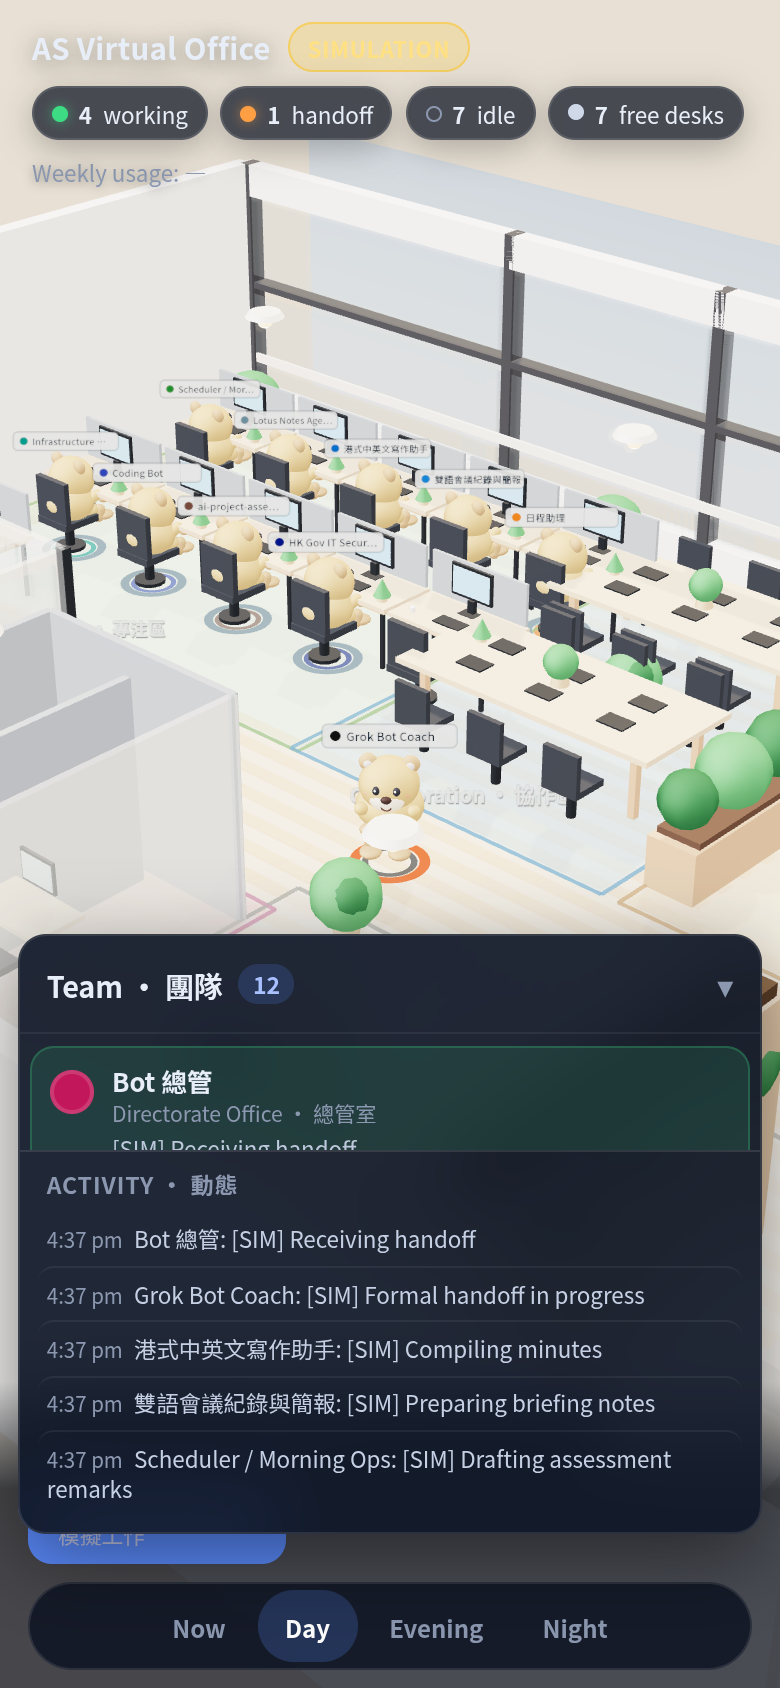
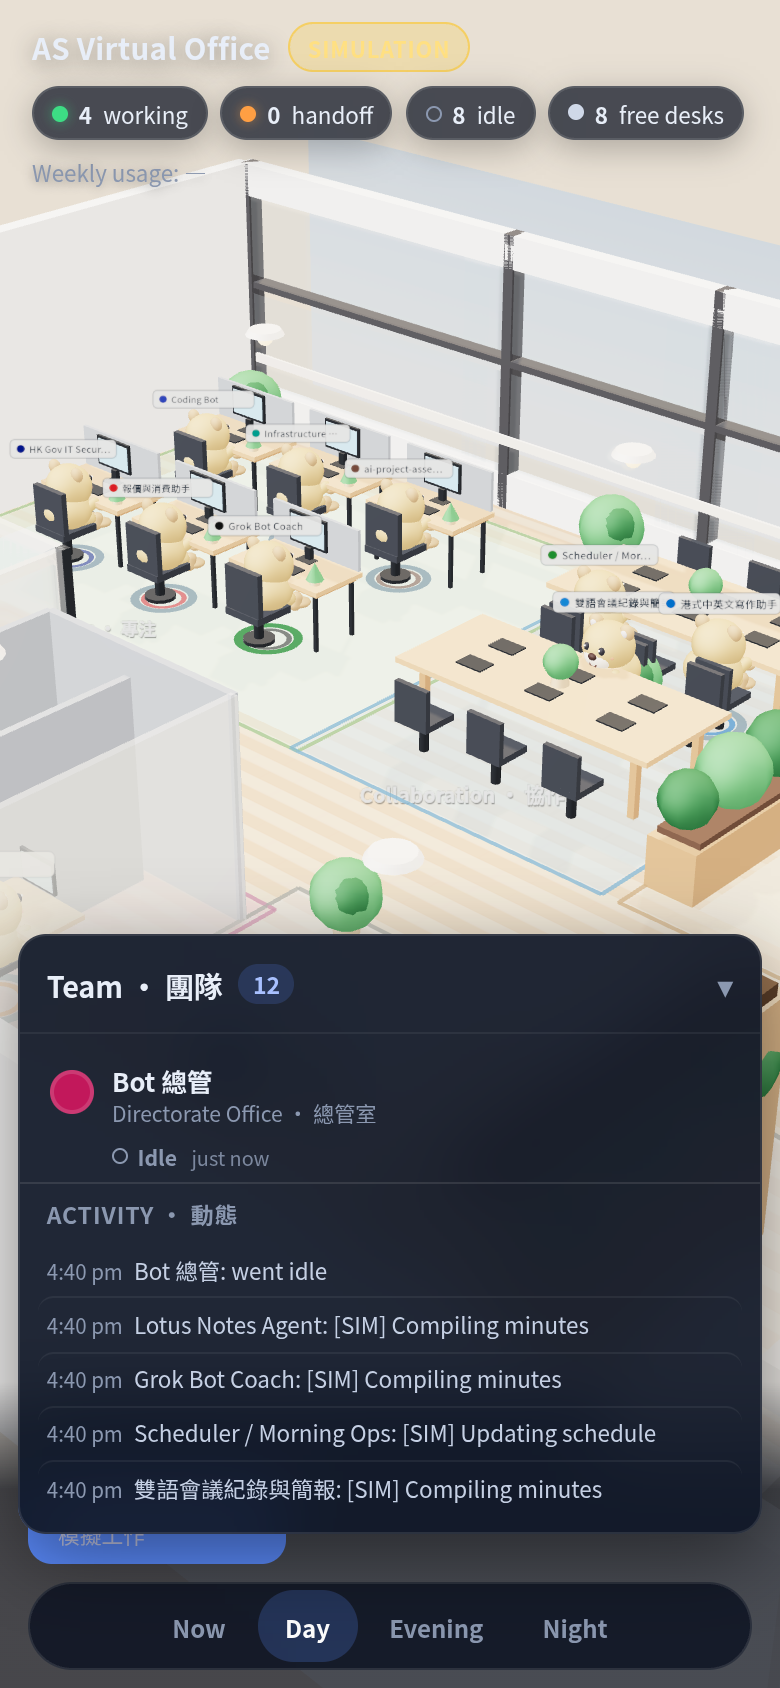
Assign bots to floor-plan zones by role
Reception lead; Focus deep-work six; Collaboration three; Phone two booths.
Handoff walks to Meeting; idle may briefly visit Social. Keep cutaway, no city.

diff --git a/src/office.js b/src/office.js
@@ -53,7 +53,7 @@ export const ZONES = [
   {
     id: 'focus',
     labelEn: 'Focus',
-    labelZh: '專注區',
+    labelZh: '專注',
     color: 0x8fbf7a,
     fill: 0xb8d9a8,
     x: -5.4,
@@ -64,7 +64,7 @@ export const ZONES = [
   {
     id: 'collaboration',
     labelEn: 'Collaboration',
-    labelZh: '協作區',
+    labelZh: '協作',
     color: 0x6aa8d8,
     fill: 0xa8cce8,
     x: -0.1,
@@ -75,7 +75,7 @@ export const ZONES = [
   {
     id: 'social',
     labelEn: 'Social',
-    labelZh: '休憩區',
+    labelZh: '社交',
     color: 0xd4a574,
     fill: 0xe8c9a0,
     x: 4.8,
@@ -86,7 +86,7 @@ export const ZONES = [
   {
     id: 'meeting',
     labelEn: 'Meeting',
-    labelZh: '會議室',
+    labelZh: '會議',
     color: 0x9b8bc4,
     fill: 0xc5b8e0,
     x: -5.6,
@@ -97,7 +97,7 @@ export const ZONES = [
   {
     id: 'phone',
     labelEn: 'Phone',
-    labelZh: '電話亭',
+    labelZh: '電話／對外',
     color: 0xd48aa8,
     fill: 0xe8b8c8,
     x: -1.4,
@@ -108,7 +108,7 @@ export const ZONES = [
   {
     id: 'reception',
     labelEn: 'Reception',
-    labelZh: '接待處',
+    labelZh: '接待',
     color: 0xa8a8a0,
     fill: 0xd8d4cc,
     x: 3.6,
@@ -119,38 +119,67 @@ export const ZONES = [
 ];
 
 /**
- * Desk / seat anchors — 11 Focus workstations + Lead at Reception.
+ * Desk / seat anchors by AS bot role × floor-plan zone (12 homes).
+ * Reception 1 · Focus 6 · Collaboration 3 · Phone 2. Meeting/Social are visit targets.
  */
 export function deskLayout() {
   const desks = new Map();
 
-  // Lead — Reception L-desk (faces entrance)
+  // Reception 接待 — Bot 總管 at L-desk
   desks.set(LEAD_ID, seatFromDesk(2.4, 4.2, 'reception', RECEPTION_CHAIR));
 
+  // Focus 專注 — 6 partitioned deep-work desks (2×3)
   const focusDesks = [
-    // Row nearer windows (−Z)
-    { id: '26fffc1c-3c69-4346-8a68-199db47277fd', x: -7.4, z: -5.2 },
-    { id: '4f070b62-ac92-4824-9953-886cda5433d1', x: -6.0, z: -5.2 },
-    { id: '28c84d63-5b73-4b78-aebc-3a2e02376fc2', x: -4.6, z: -5.2 },
-    { id: '2fb3b7e8-b556-45ea-8b10-1ced7f05c0b4', x: -3.2, z: -5.2 },
-    { id: '9f0fa493-9994-409c-b398-974b67de306e', x: -1.8, z: -5.2 },
-    // Second row
-    { id: 'aecd27e2-8d49-4c33-962c-cdfa1860fd26', x: -7.4, z: -3.0 },
-    { id: 'b7c9b07d-4a12-49af-bbdf-7fa19bdc96b2', x: -6.0, z: -3.0 },
-    { id: '5f8f09c0-fe3d-40a5-87c1-2fcc440bb9c3', x: -4.6, z: -3.0 },
-    { id: 'c7f037b0-0082-4290-a543-00f203e4c150', x: -3.2, z: -3.0 },
-    { id: '764c93f4-9330-4daa-9f86-481be3b19e60', x: -1.8, z: -3.0 },
-    // Overflow focus seat near collab edge
-    { id: '6a0dc819-57c2-4507-ae25-f3b3122c3f46', x: -7.4, z: -1.0 },
+    { id: 'b7c9b07d-4a12-49af-bbdf-7fa19bdc96b2', x: -7.2, z: -5.0 }, // Coding
+    { id: 'aecd27e2-8d49-4c33-962c-cdfa1860fd26', x: -5.6, z: -5.0 }, // Infrastructure
+    { id: '5f8f09c0-fe3d-40a5-87c1-2fcc440bb9c3', x: -4.0, z: -5.0 }, // assessment-validator
+    { id: 'c7f037b0-0082-4290-a543-00f203e4c150', x: -7.2, z: -2.8 }, // IT Security
+    { id: '6a0dc819-57c2-4507-ae25-f3b3122c3f46', x: -5.6, z: -2.8 }, // 報價與消費
+    { id: '764c93f4-9330-4daa-9f86-481be3b19e60', x: -4.0, z: -2.8 }, // Grok Bot Coach
   ];
   for (const d of focusDesks) {
     desks.set(d.id, seatFromDesk(d.x, d.z, 'focus'));
   }
+
+  // Collaboration 協作 — shared tables (face into table)
+  // North table (+Z side chairs face −Z); south table (−Z side chairs face +Z)
+  desks.set(
+    '26fffc1c-3c69-4346-8a68-199db47277fd', // Scheduler
+    seatFromDesk(-0.9, -5.0, 'collaboration', { offsetZ: 0.95, seatY: 0.45, faceYaw: Math.PI }),
+  );
+  desks.set(
+    '28c84d63-5b73-4b78-aebc-3a2e02376fc2', // 港式中英文寫作
+    seatFromDesk(0.7, -5.0, 'collaboration', { offsetZ: 0.95, seatY: 0.45, faceYaw: Math.PI }),
+  );
+  desks.set(
+    '2fb3b7e8-b556-45ea-8b10-1ced7f05c0b4', // 雙語會議紀錄
+    seatFromDesk(-0.1, -2.6, 'collaboration', { offsetZ: -0.95, seatY: 0.45, faceYaw: 0 }),
+  );
+
+  // Phone 電話／對外 — two booths
+  desks.set(
+    '4f070b62-ac92-4824-9953-886cda5433d1', // Lotus Notes
+    seatFromDesk(-1.95, 3.6, 'phone', { offsetZ: 0.45, seatY: 0.45, faceYaw: Math.PI }),
+  );
+  desks.set(
+    '9f0fa493-9994-409c-b398-974b67de306e', // 日程助理
+    seatFromDesk(-0.85, 3.6, 'phone', { offsetZ: 0.45, seatY: 0.45, faceYaw: Math.PI }),
+  );
+
   return desks;
 }
 
-/** Handoff meetup near reception desk front */
-export const LEAD_HANDOFF = { x: 2.4, y: CHAIR.seatY, z: 3.2 };
+/** Meeting 會議 — handoff / walk target at conference table */
+export const MEETING_HANDOFF = { x: -5.6, y: CHAIR.seatY, z: 3.6 };
+/** @deprecated alias — handoffs go to Meeting now */
+export const LEAD_HANDOFF = MEETING_HANDOFF;
+
+/** Social 社交 lounge visit spots (no permanent home seats) */
+export const SOCIAL_SPOTS = [
+  { x: 6.2, z: -3.4 },
+  { x: 7.2, z: -4.6 },
+  { x: 5.2, z: -2.6 },
+];
 
 function mat(color, opts = {}) {
   return new THREE.MeshStandardMaterial({
@@ -288,17 +317,12 @@ export function buildOfficeScene(scene, _loader) {
 
   // ——— Focus Zone: desks with privacy partitions ———
   const focusPositions = [
-    [-7.4, -5.2],
-    [-6.0, -5.2],
-    [-4.6, -5.2],
-    [-3.2, -5.2],
-    [-1.8, -5.2],
-    [-7.4, -3.0],
-    [-6.0, -3.0],
-    [-4.6, -3.0],
-    [-3.2, -3.0],
-    [-1.8, -3.0],
-    [-7.4, -1.0],
+    [-7.2, -5.0],
+    [-5.6, -5.0],
+    [-4.0, -5.0],
+    [-7.2, -2.8],
+    [-5.6, -2.8],
+    [-4.0, -2.8],
   ];
   for (const [dx, dz] of focusPositions) {
     buildFocusDesk(root, dx, dz, wood, woodWarm, blackMetal, screenGlow, plant, pot, partitionMat);

diff --git a/src/bots.js b/src/bots.js
@@ -6,7 +6,7 @@ import { TEAM, LEAD_ID } from './team.js';
 import { getEffectiveStatus } from './supabase.js';
 import { createNameTagCanvas } from './avatars.js';
 import { createFigure } from './figures.js';
-import { LEAD_HANDOFF, CHAIR } from './office.js';
+import { MEETING_HANDOFF, SOCIAL_SPOTS, CHAIR } from './office.js';
 
 /**
  * @param {THREE.Scene} scene
@@ -115,27 +115,47 @@ export function createBotManager(scene, desks, camera) {
     return name.slice(0, 13) + '…';
   }
 
-  /** Seated nestled on cushion (slightly toward desk, clear of backrest) */
-  function seated(desk) {
+  /** Nestle along faceYaw (toward desk when dist>0). */
+  function nestle(desk, dist) {
     const sx = desk.seatX ?? desk.x;
     const sz = desk.seatZ ?? desk.z + CHAIR.offsetZ;
-    return { x: sx, z: sz - 0.05 };
+    const yaw = desk.faceYaw ?? CHAIR.faceYaw;
+    return { x: sx + Math.sin(yaw) * dist, z: sz + Math.cos(yaw) * dist };
+  }
+
+  /** Seated nestled on cushion (slightly toward desk, clear of backrest) */
+  function seated(desk) {
+    return nestle(desk, 0.05);
   }
 
   /** Scoot toward keyboard / monitors while working */
   function working(desk) {
-    const sx = desk.seatX ?? desk.x;
-    const sz = desk.seatZ ?? desk.z + CHAIR.offsetZ;
-    return { x: sx, z: sz - 0.14 };
+    return nestle(desk, 0.14);
   }
 
-  function handoffTarget(id) {
-    if (id === LEAD_ID) {
-      const home = motion.get(id)?.home;
-      return { x: home.x, z: home.z };
-    }
-    // Scoot in wheeled chair toward lead (stay at seat height)
-    return { x: LEAD_HANDOFF.x, z: LEAD_HANDOFF.z };
+  /** Handoff → Meeting 會議 conference table */
+  function handoffTarget(_id) {
+    // Stagger seats around the meeting table so multiple handoffs don't stack
+    const slot = Math.abs(hashId(_id)) % 4;
+    const offsets = [
+      { x: -0.7, z: 0.7 },
+      { x: 0.7, z: 0.7 },
+      { x: -0.7, z: -0.5 },
+      { x: 0.7, z: -0.5 },
+    ];
+    const o = offsets[slot];
+    return { x: MEETING_HANDOFF.x + o.x, z: MEETING_HANDOFF.z + o.z };
+  }
+
+  function hashId(id) {
+    let h = 0;
+    for (let i = 0; i < id.length; i++) h = (h * 31 + id.charCodeAt(i)) | 0;
+    return h;
+  }
+
+  function socialVisitTarget(id) {
+    const spot = SOCIAL_SPOTS[Math.abs(hashId(id)) % SOCIAL_SPOTS.length];
+    return { x: spot.x, z: spot.z };
   }
 
   function startMove(id, target, duration, phase) {
@@ -162,11 +182,17 @@ export function createBotManager(scene, desks, camera) {
       m.state = vis.state;
 
       if (vis.state === 'idle') {
-        startMove(member.id, seated(desk), 2.2, 'to-seat');
+        // Mostly home; ~28% briefly visit Social lounge then return
+        const visit = Math.abs(hashId(member.id + String(Math.floor(Date.now() / 60000)))) % 100 < 28;
+        if (visit && member.id !== LEAD_ID) {
+          startMove(member.id, socialVisitTarget(member.id), 2.8, 'to-social');
+        } else {
+          startMove(member.id, seated(desk), 2.2, 'to-seat');
+        }
       } else if (vis.state === 'working') {
         startMove(member.id, working(desk), 1.2, 'to-desk');
       } else if (vis.state === 'handoff') {
-        startMove(member.id, handoffTarget(member.id), member.id === LEAD_ID ? 1.0 : 3.2, 'to-lead');
+        startMove(member.id, handoffTarget(member.id), 3.0, 'to-meeting');
       } else if (prev !== 'idle') {
         startMove(member.id, seated(desk), 2.2, 'to-seat');
         m.state = 'idle';
@@ -214,16 +240,23 @@ export function createBotManager(scene, desks, camera) {
         }
 
         if (m.t >= 1) {
-          if (m.phase === 'to-lead' && id !== LEAD_ID) {
+          if (m.phase === 'to-meeting') {
             const desk = desks.get(id);
             setTimeout(() => {
               if (motion.get(id)?.state === 'handoff') {
                 startMove(id, seated(desk), 3.2, 'returning');
               }
-            }, 1600);
+            }, 1800);
+          }
+          if (m.phase === 'to-social') {
+            const desk = desks.get(id);
+            setTimeout(() => {
+              if (motion.get(id)?.state === 'idle') {
+                startMove(id, seated(desk), 2.6, 'returning');
+              }
+            }, 2400);
           }
           if (m.phase === 'returning') {
-            m.state = 'idle';
             m.phase = 'idle';
           }
         }
@@ -248,12 +281,12 @@ export function createBotManager(scene, desks, camera) {
         bounce += Math.abs(Math.sin(b.bob * 3.4)) * 0.006;
       }
 
-      if (st.state === 'handoff' && !moving && id !== LEAD_ID) {
-        const dx = LEAD_HANDOFF.x - b.x;
-        const dz = LEAD_HANDOFF.z - 0.3 - b.z;
+      if (st.state === 'handoff' && !moving) {
+        const dx = MEETING_HANDOFF.x - b.x;
+        const dz = MEETING_HANDOFF.z - b.z;
         const desired = Math.atan2(dx, dz);
         b.facing = lerpAngle(b.facing, desired, Math.min(1, dt * 3));
-      } else if (!moving && (st.state === 'idle' || st.state === 'working')) {
+      } else if (!moving && (st.state === 'idle' || st.state === 'working') && m.phase !== 'to-social') {
         b.facing = lerpAngle(b.facing, b.homeFacing, Math.min(1, dt * 2.2));
       }
 
